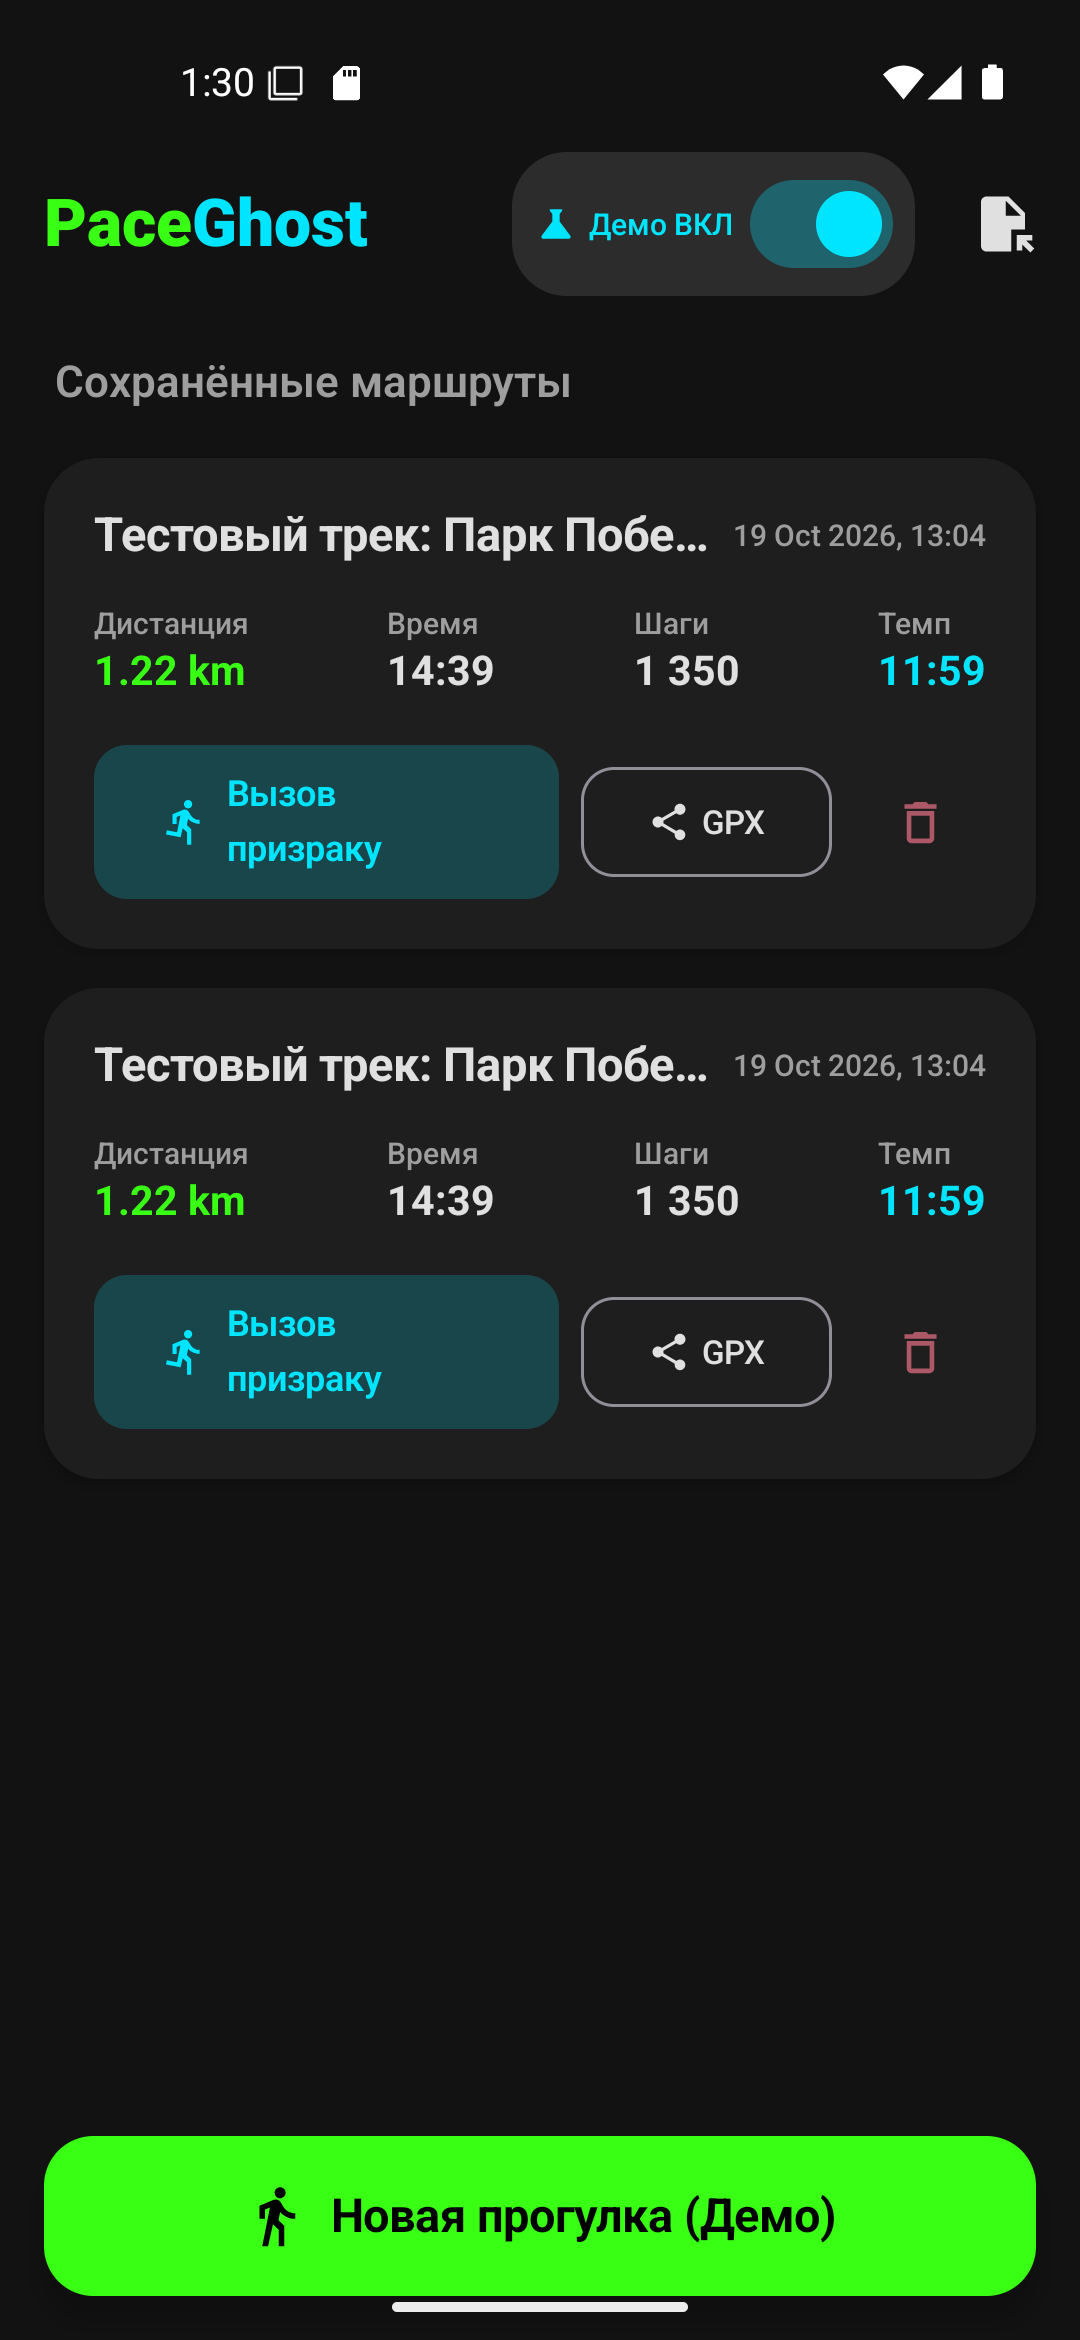
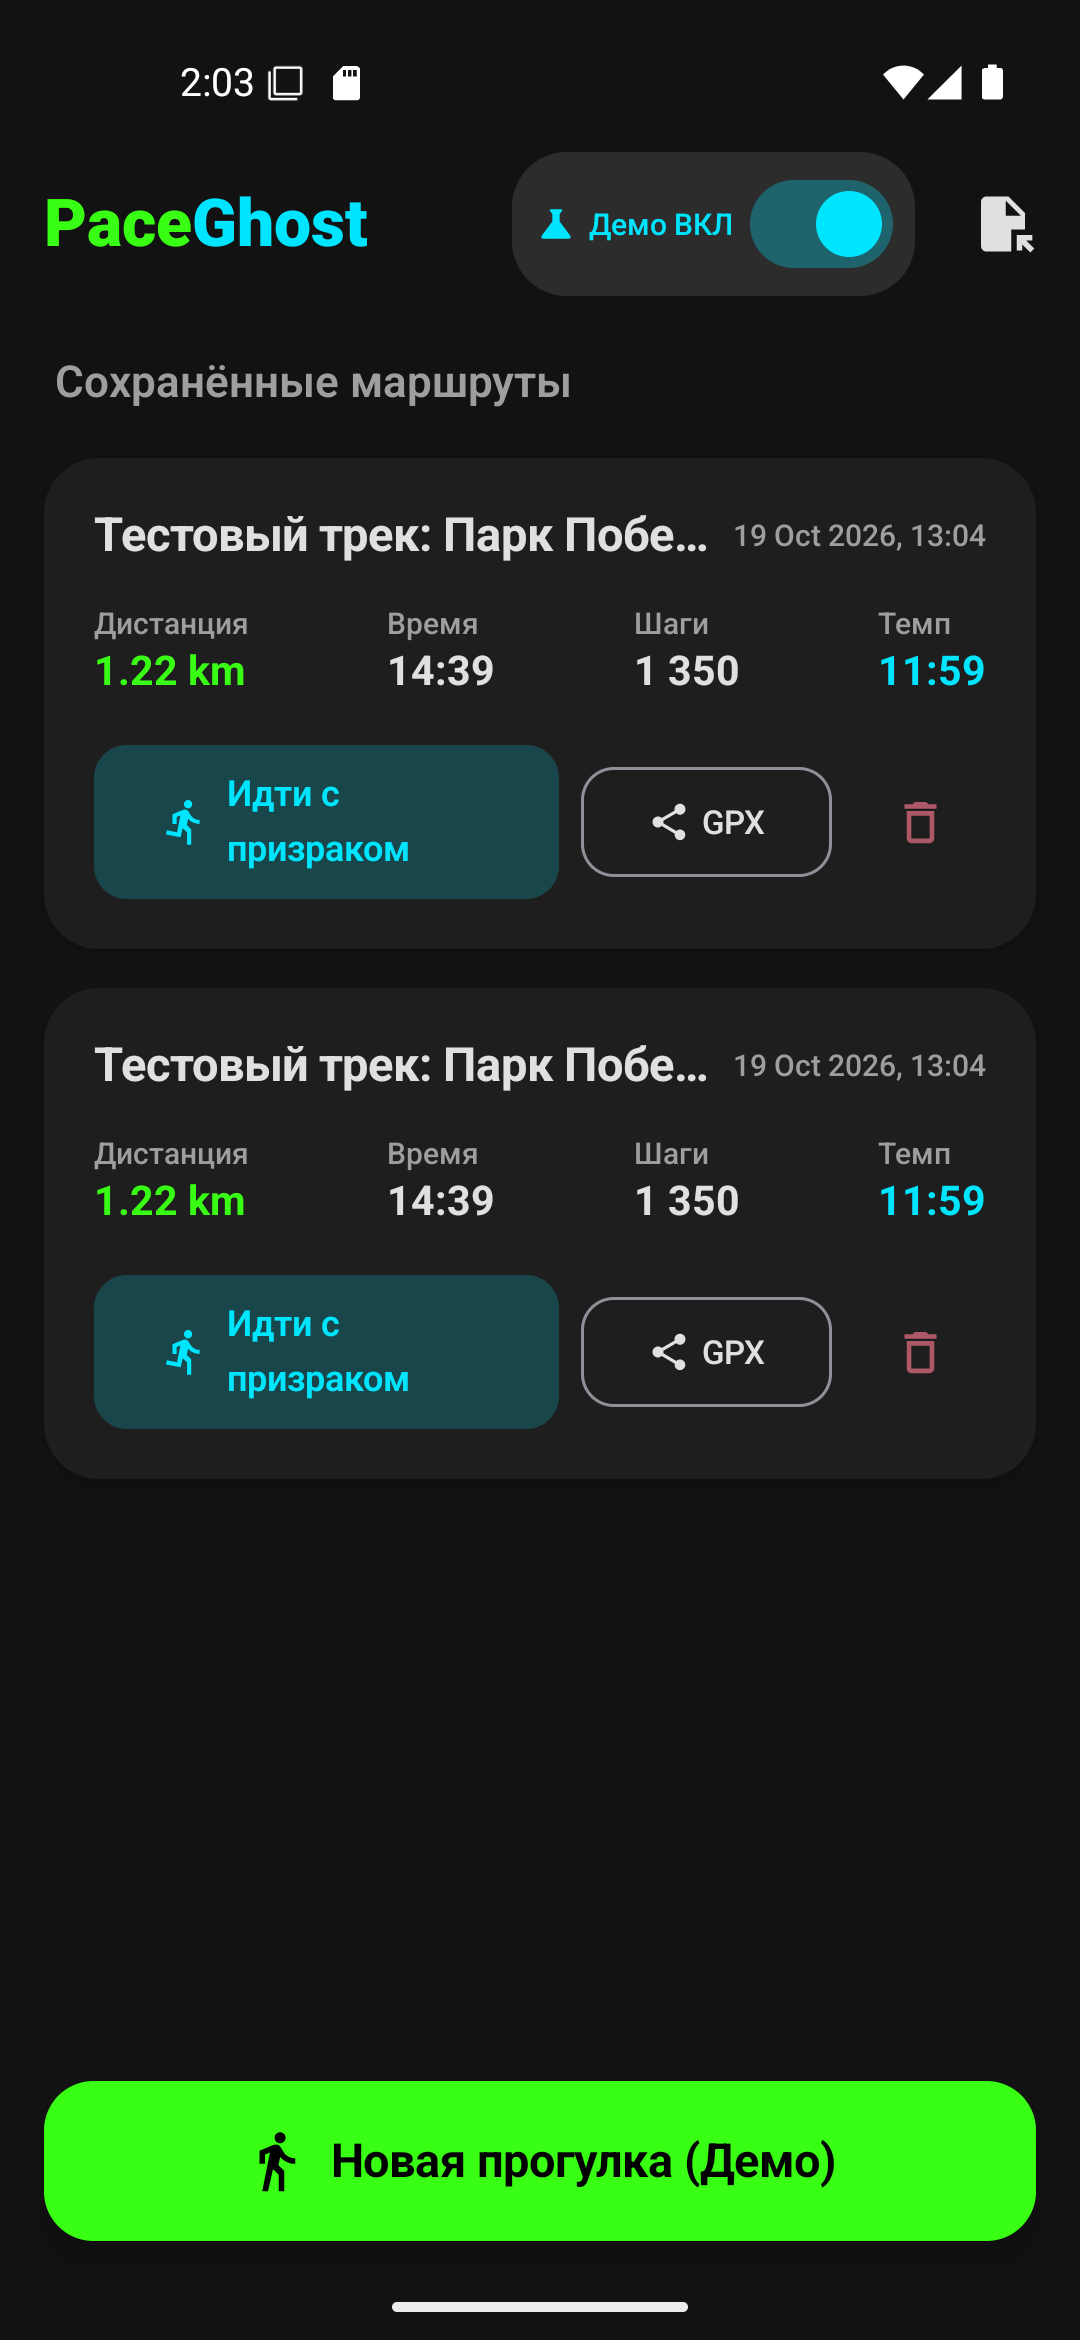
fix(ui): add navigation bar insets and update ghost button to 'Идти с призраком'

diff --git a/app/src/main/java/com/paceghost/app/ui/active/ActiveWalkScreen.kt b/app/src/main/java/com/paceghost/app/ui/active/ActiveWalkScreen.kt
@@ -8,6 +8,7 @@ import androidx.compose.foundation.layout.Row
 import androidx.compose.foundation.layout.Spacer
 import androidx.compose.foundation.layout.fillMaxSize
 import androidx.compose.foundation.layout.fillMaxWidth
+import androidx.compose.foundation.layout.navigationBarsPadding
 import androidx.compose.foundation.layout.padding
 import androidx.compose.foundation.layout.size
 import androidx.compose.foundation.layout.width
@@ -171,7 +172,9 @@ fun ActiveWalkScreen(
             walkState = walkState,
             onPauseResume = { viewModel.togglePauseResume() },
             onFinish = { viewModel.requestFinish() },
-            modifier = Modifier.align(Alignment.BottomCenter)
+            modifier = Modifier
+                .align(Alignment.BottomCenter)
+                .navigationBarsPadding()
         )
 
         // 4. Summary Dialog

diff --git a/app/src/main/java/com/paceghost/app/ui/home/HomeScreen.kt b/app/src/main/java/com/paceghost/app/ui/home/HomeScreen.kt
@@ -14,6 +14,7 @@ import androidx.compose.foundation.layout.Spacer
 import androidx.compose.foundation.layout.fillMaxSize
 import androidx.compose.foundation.layout.fillMaxWidth
 import androidx.compose.foundation.layout.height
+import androidx.compose.foundation.layout.navigationBarsPadding
 import androidx.compose.foundation.layout.padding
 import androidx.compose.foundation.layout.size
 import androidx.compose.foundation.layout.width
@@ -190,7 +191,8 @@ fun HomeScreen(
                 modifier = Modifier
                     .fillMaxWidth()
                     .background(DarkBackground)
-                    .padding(16.dp)
+                    .navigationBarsPadding()
+                    .padding(horizontal = 16.dp, vertical = 12.dp)
             ) {
                 Button(
                     onClick = { onStartWalk(-1L, isDemoMode) },

diff --git a/app/src/main/java/com/paceghost/app/ui/home/components/WalkCard.kt b/app/src/main/java/com/paceghost/app/ui/home/components/WalkCard.kt
@@ -87,6 +87,7 @@ fun WalkCard(
                     overflow = TextOverflow.Ellipsis,
                     modifier = Modifier.weight(1f)
                 )
+                Spacer(modifier = Modifier.width(8.dp))
                 Text(
                     text = formattedDate,
                     style = MaterialTheme.typography.labelSmall,
@@ -150,7 +151,7 @@ fun WalkCard(
                     )
                     Spacer(modifier = Modifier.width(6.dp))
                     Text(
-                        text = "Вызов призраку",
+                        text = "Идти с призраком",
                         fontWeight = FontWeight.SemiBold,
                         fontSize = 13.sp
                     )
